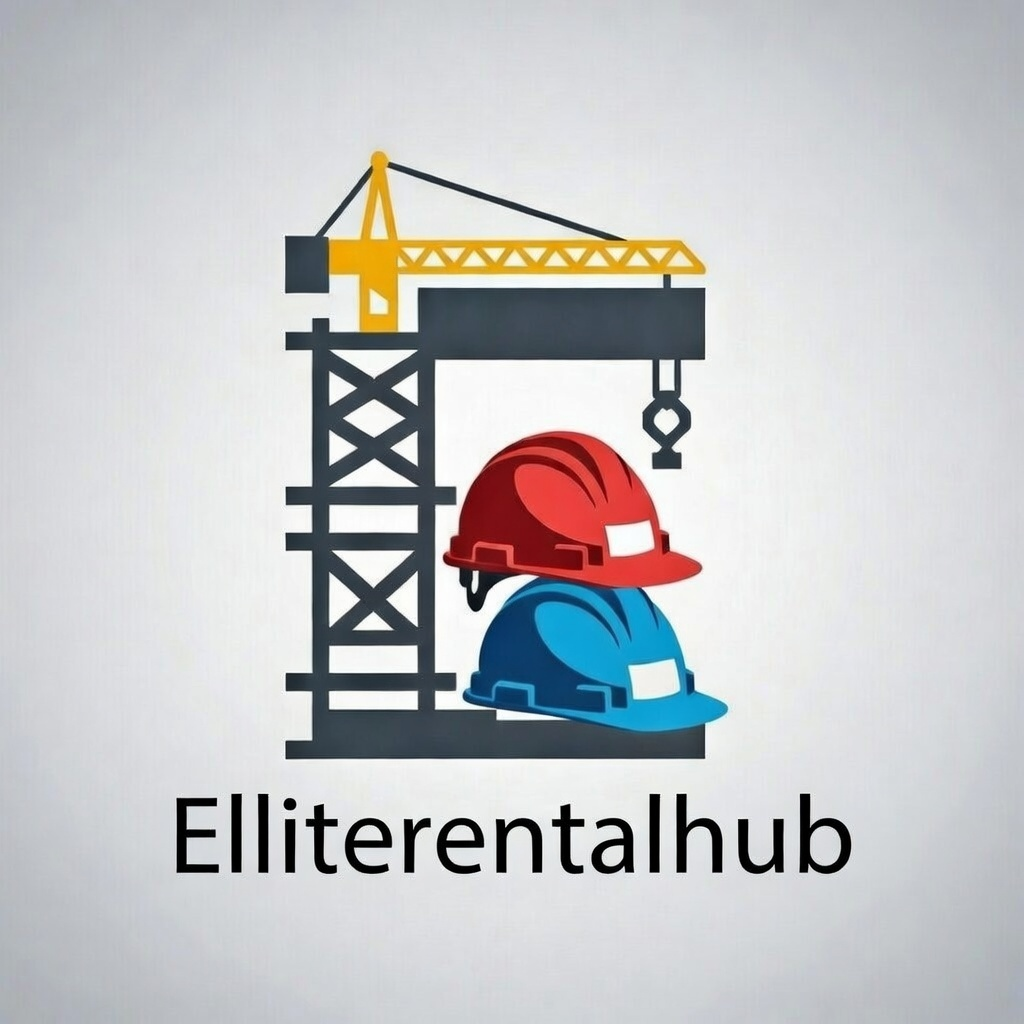
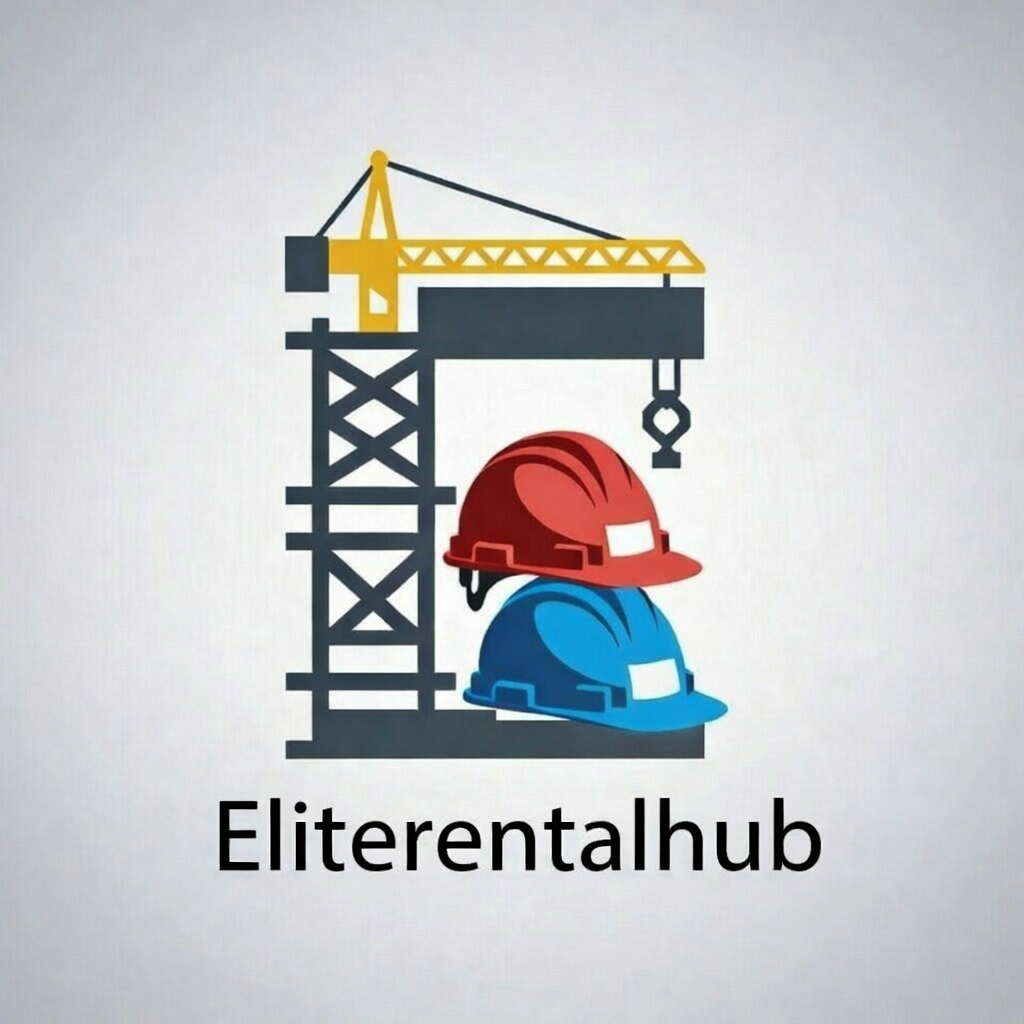
imagechnages

diff --git a/src/Components/Features.jsx b/src/Components/Features.jsx
@@ -52,7 +52,7 @@ const Features = () => {
             style={{ fontFamily: '"M PLUS 1", sans-serif' }}
             className="text-3xl sm:text-4xl md:text-5xl font-bold"
           >
-            Why Rent With Elliterentalhub
+            Why Rent With Eliterentalhub
           </motion.h2>
         </div>
 
